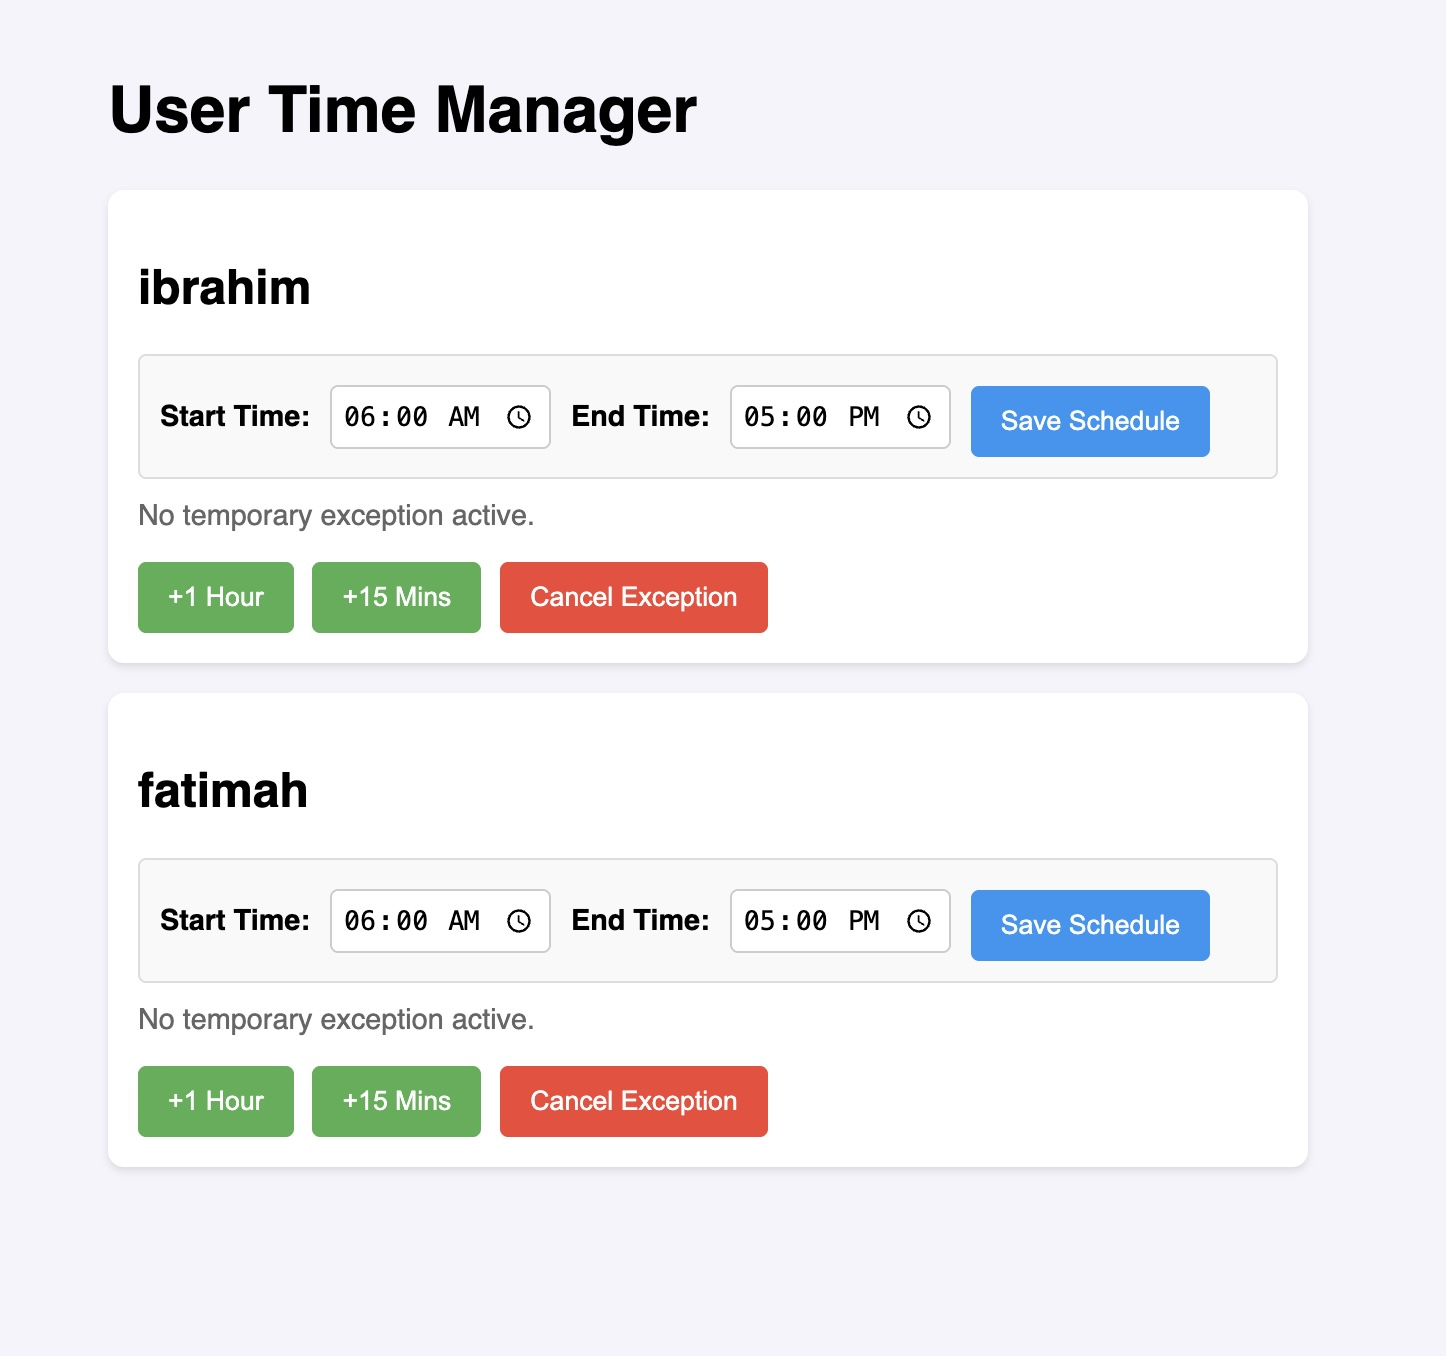
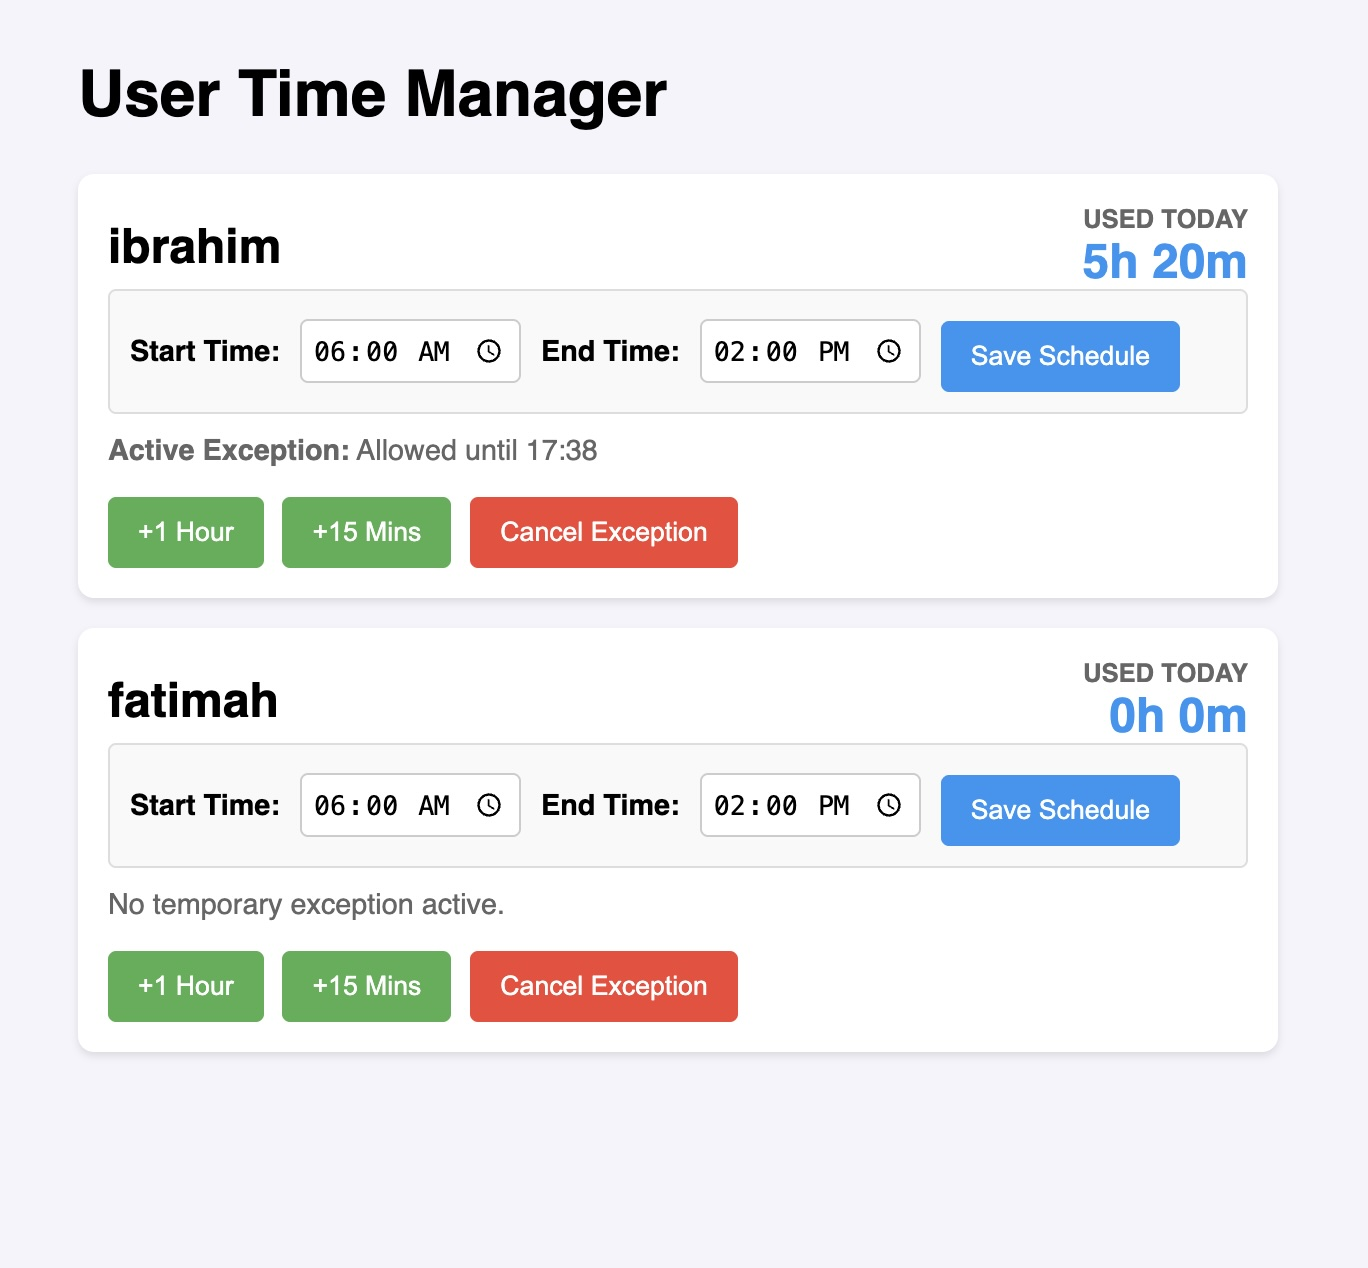
Added user time history (used today) to the UI.

Changed region(s): [[0.0614, 0.1538, 0.9211, 0.4921], [0.0614, 0.5229, 0.9211, 0.8612], [0.0614, 0.0308, 0.4912, 0.123]]

diff --git a/src/templates/index.html b/src/templates/index.html
@@ -20,7 +20,13 @@
     <h1>User Time Manager</h1>
     {% for username, data in users.items() %}
     <div class="user-card">
-        <h2>{{ username }}</h2>
+        <div style="display: flex; justify-content: space-between; align-items: center;">
+            <h2 style="margin: 0;">{{ username }}</h2>
+            <div style="text-align: right;">
+                <div style="font-size: 0.8em; color: #666; text-transform: uppercase; font-weight: bold;">Used Today</div>
+                <div style="font-size: 1.5em; font-weight: bold; color: #2196F3;">{{ data.usage_today_formatted }}</div>
+            </div>
+        </div>
         
         <div class="schedule-form">
             <label>Start Time:</label>

diff --git a/src/api.py b/src/api.py
@@ -56,6 +56,46 @@ def save_config(config):
     with open(CONFIG_PATH, 'w') as f:
         json.dump(config, f, indent=4)
 
+import re
+import subprocess
+
+def get_usage_from_logs(username):
+    """Attempt to recover today's usage from system logs (last command)."""
+    today_str = datetime.now().strftime("%Y-%m-%d")
+    total_mins = 0
+    try:
+        # last -F gives full date/time stamps
+        output = subprocess.check_output(["last", "-F", username], text=True)
+        for line in output.splitlines():
+            if not line.strip() or username not in line:
+                continue
+            
+            # Check if session started today
+            # Format: username tty7 :0 Fri May 22 17:08:49 2026 ...
+            parts = line.split()
+            if len(parts) < 10: continue
+            
+            try:
+                start_date_str = f"{parts[4]} {parts[5]} {parts[7]}" # May 22 2026
+                if datetime.strptime(start_date_str, "%b %d %Y").strftime("%Y-%m-%d") != today_str:
+                    continue
+            except:
+                continue
+
+            if "still logged in" in line:
+                full_start_str = " ".join(parts[3:8])
+                start_time = datetime.strptime(full_start_str, "%a %b %d %H:%M:%S %Y")
+                delta = datetime.now() - start_time
+                total_mins += int(delta.total_seconds() / 60)
+            elif "(" in line and ")" in line:
+                match = re.search(r"\((\d+):(\d+)\)", line)
+                if match:
+                    hours, mins = map(int, match.groups())
+                    total_mins += hours * 60 + mins
+    except:
+        pass
+    return total_mins
+
 @app.route('/')
 @requires_auth
 def index():
@@ -80,7 +120,34 @@ def index():
         save_config(config)
         
     # Only send actual non-admin users to the frontend template
-    display_users = {k: v for k, v in config['users'].items() if k in non_admins}
+    display_users = {}
+    today = datetime.now().strftime("%Y-%m-%d")
+    
+    for u in non_admins:
+        if u in config['users']:
+            user_data = config['users'][u].copy()
+            if "daily_usage" not in user_data:
+                user_data["daily_usage"] = {}
+            
+            usage_mins = user_data["daily_usage"].get(today, 0)
+            
+            # If tracking just started or data is missing, try log recovery
+            if usage_mins == 0:
+                usage_mins = get_usage_from_logs(u)
+                # Save it back to config so sweep can increment from here
+                if usage_mins > 0:
+                    if "daily_usage" not in config['users'][u]:
+                        config['users'][u]["daily_usage"] = {}
+                    config['users'][u]["daily_usage"][today] = usage_mins
+                    changed = True
+
+            user_data["usage_today_formatted"] = f"{usage_mins // 60}h {usage_mins % 60}m"
+            user_data["usage_mins"] = usage_mins
+            display_users[u] = user_data
+            
+    if changed:
+        save_config(config)
+            
     return render_template('index.html', users=display_users)
 
 @app.route('/api/extend', methods=['POST'])
